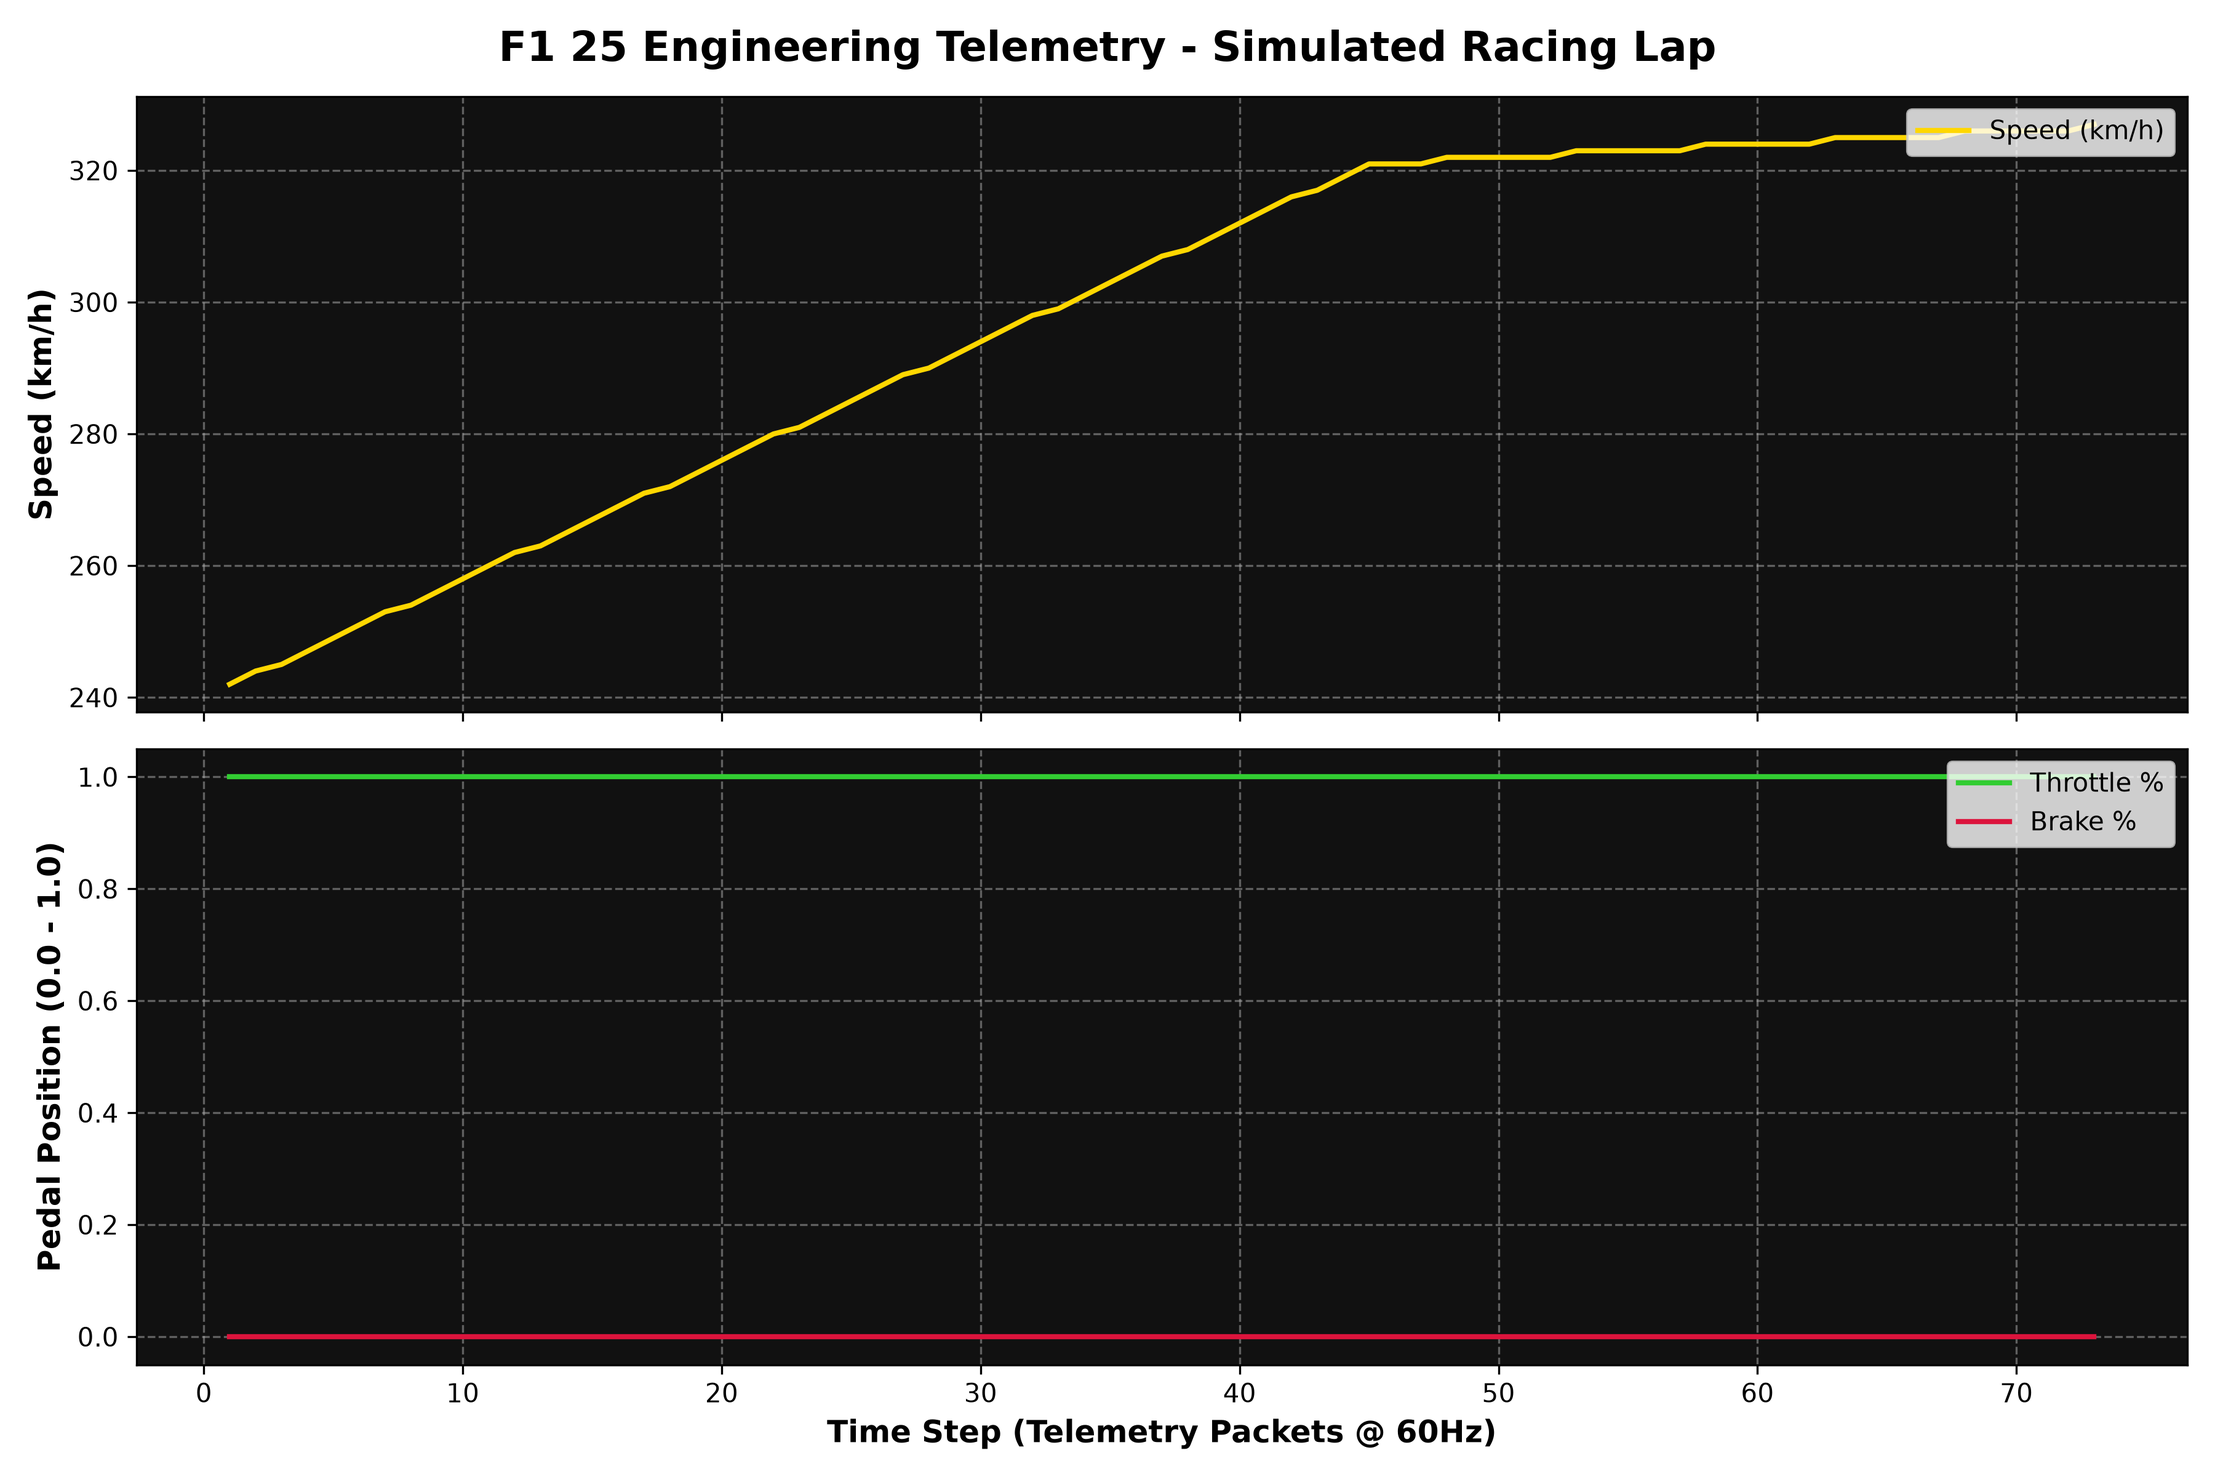
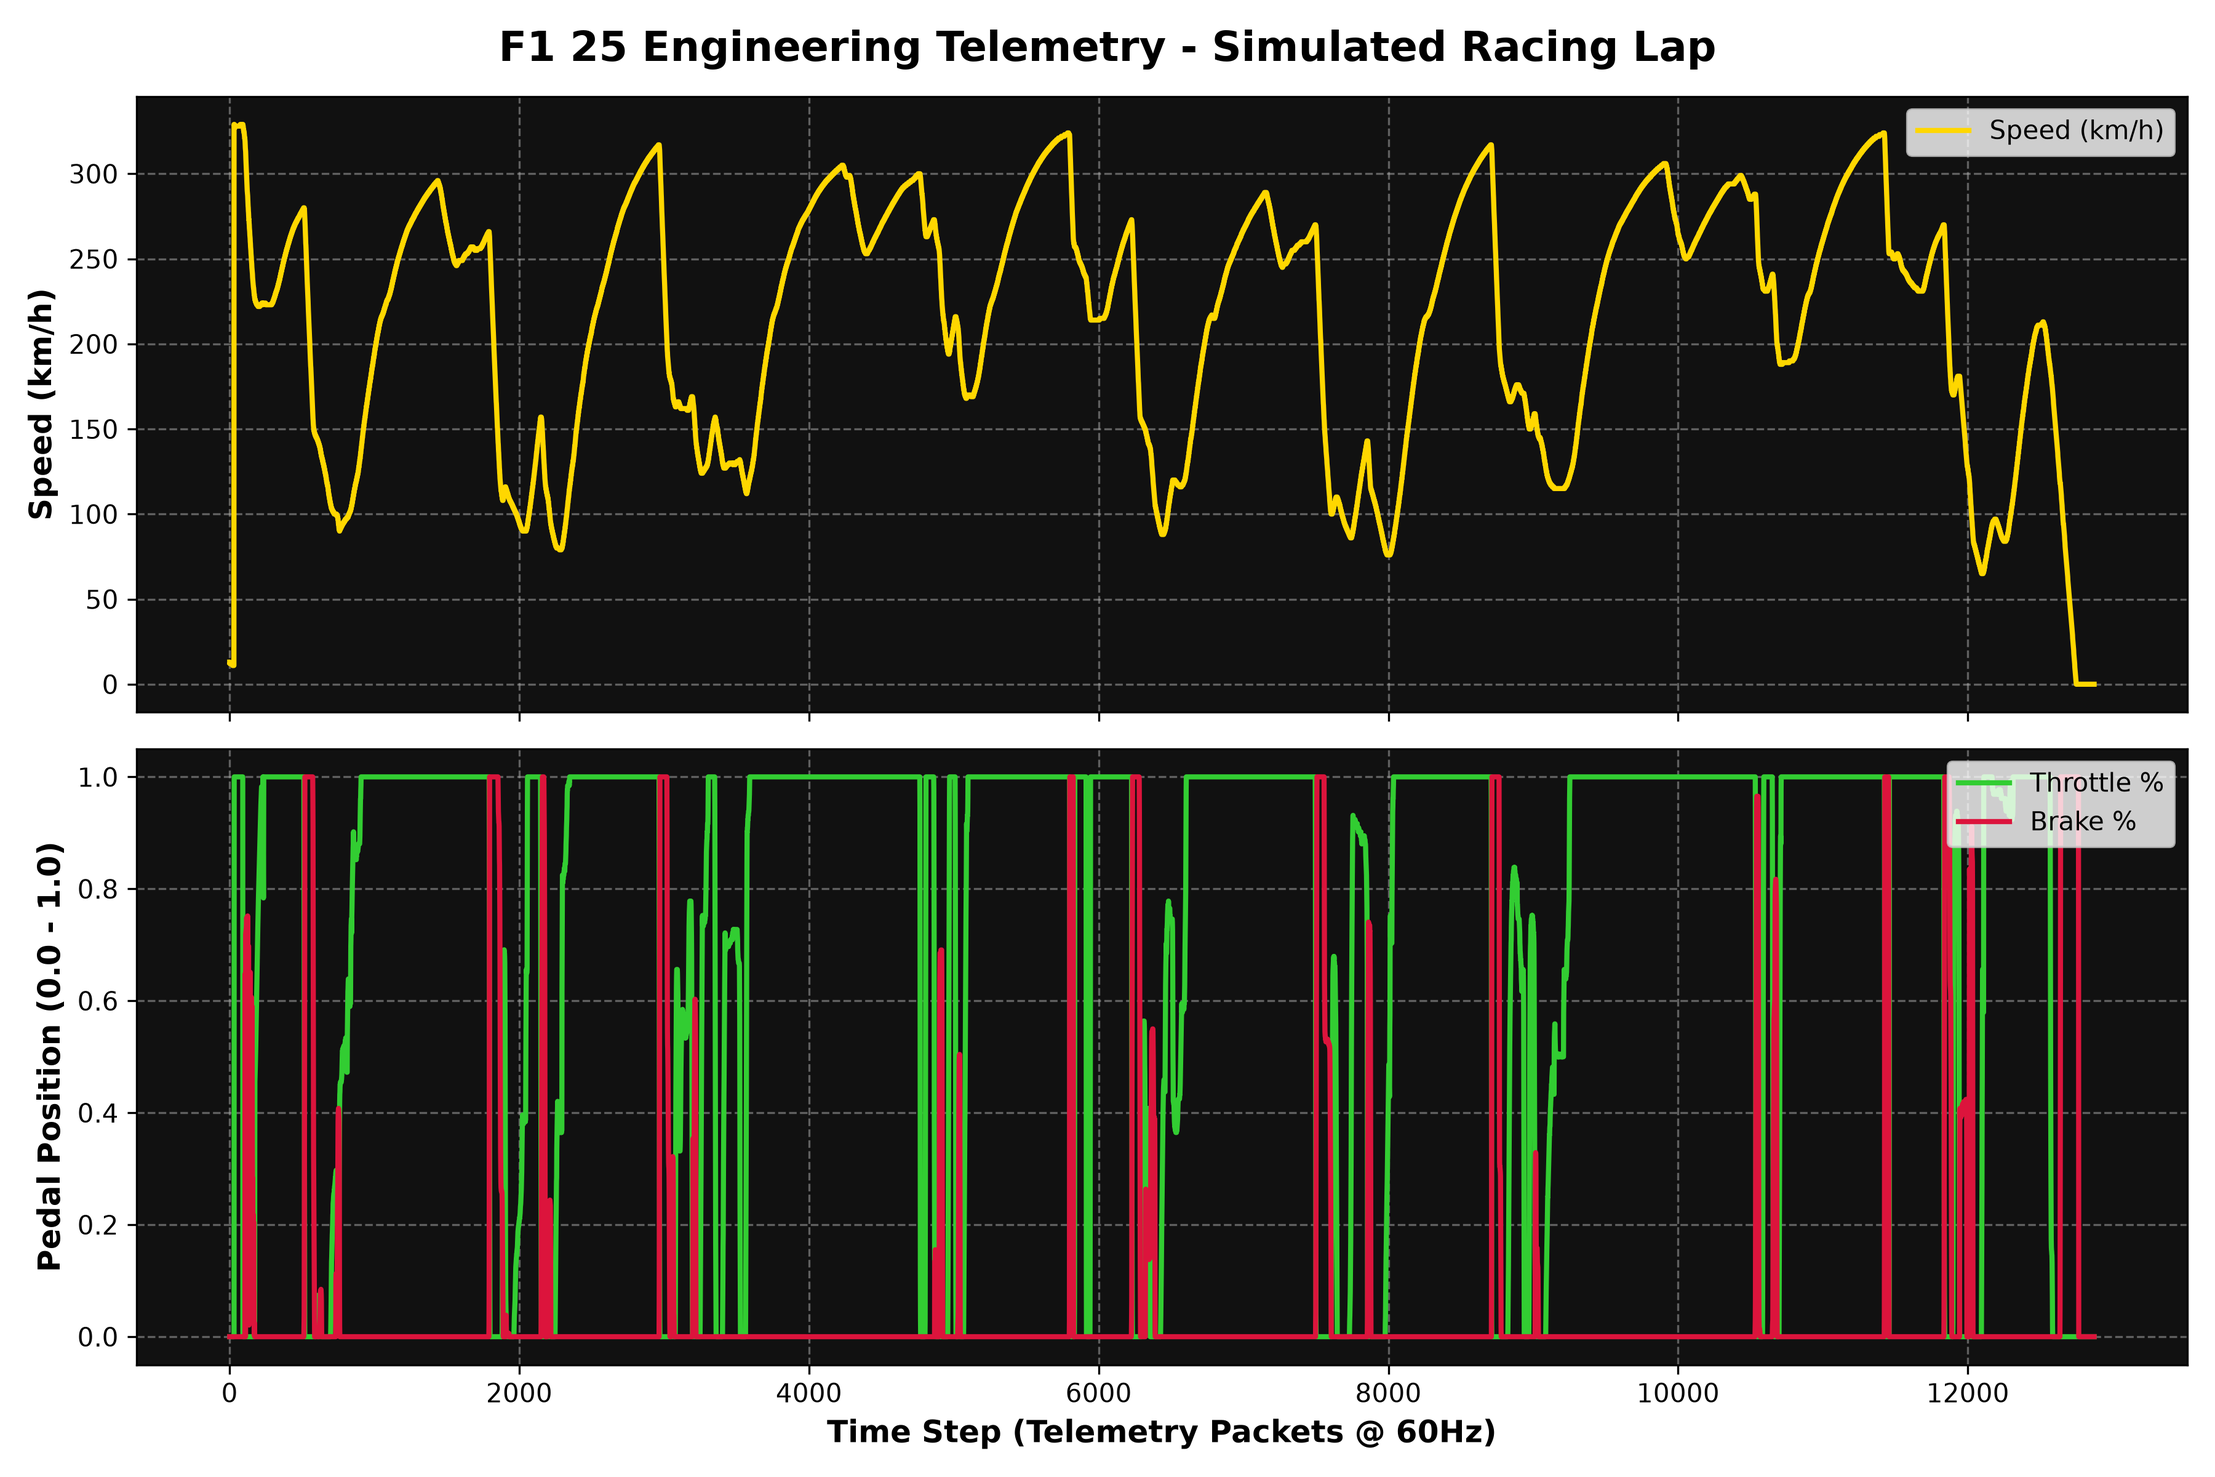
feat(telemetry): align F1 25 binary packet offsets, add sequential lap tracking, auto track detection, and CLI analytics

diff --git a/templates/index.html b/templates/index.html
@@ -20,7 +20,7 @@
         </div>
     </header>
 
-    <main class="dashboard-grid">
+    <main class="dashboard-grid">       
         <!-- KPI Metric Cards -->
         <div class="kpi-container">
             <div class="kpi-card">
@@ -59,7 +59,9 @@
             <div class="gauge-box">
                 <h3>🎡 Live Steering Wheel</h3>
                 <div class="wheel-container">
-                    <div id="steeringWheel" class="steering-wheel">🎡</div>
+                    <!--<div id="steeringWheel" class="steering-wheel">  -->
+                        <img src="{{ url_for('static', filename='wheel.png') }}" id="steeringWheel" class="steering-wheel" alt="My Image">
+                    <!--</div> -->
                 </div>
             </div>
             <div class="map-box">

diff --git a/static/style.css b/static/style.css
@@ -135,6 +135,12 @@ canvas {
 .steering-wheel {
     font-size: 4rem;
     transition: transform 0.1s ease-out;
+
+    display: block;
+    height: 150px;       /* Fills the 120px container height */
+    width: auto;        /* Keeps the wheel perfectly round */
+    object-fit: contain;
+   
 }
 
 canvas#mapCanvas {

diff --git a/tests/data_viewer.py b/tests/data_viewer.py
@@ -1,57 +1,91 @@
+# tests/data_viewer.py
+import sys
+sys.path.append(".")  # Root import resolution
+
+import argparse
 import sqlite3
 import pandas as pd
 import matplotlib.pyplot as plt
+from config import DB_PATH
 
-def plot_telemetry_traces(db_path="telemetry.db"):
-    # 1. Establish database connection and extract the logged data via SQL
-    # We grab data from our high-frequency child table
-    query = """
-        SELECT sample_id, speed, throttle, brake 
-        FROM telemetry_samples 
-        ORDER BY sample_id ASC
-    """
-    
+def plot_telemetry_traces(mode="latest", lap_id=None, db_path=DB_PATH):
     with sqlite3.connect(db_path) as conn:
-        # Load the SQL query directly into a convenient Pandas DataFrame pandas structure
-        df = pd.read_sql_query(query, conn)
-    
+        
+        # --- MODE 1: FULL STINT MODE (All Laps across Time) ---
+        if mode == "all":
+            query = "SELECT sample_id, speed, throttle, brake FROM telemetry_samples ORDER BY sample_id ASC"
+            df = pd.read_sql_query(query, conn)
+            x_axis = 'sample_id'
+            x_label = "Time Step (Telemetry Packets @ 60Hz)"
+            title_text = "F1 25 Telemetry - Full Driving Stint Overview"
+            output_img = "telemetry_full_stint.png"
+
+        # --- MODE 2: SINGLE LAP MODE (Targeted Lap by Distance) ---
+        else:
+            if lap_id is None:
+                lap_df = pd.read_sql_query("SELECT lap_id FROM laps ORDER BY lap_id DESC LIMIT 1", conn)
+                if lap_df.empty:
+                    print("No laps found in database! Run main.py first.")
+                    return
+                lap_id = int(lap_df.iloc[0]['lap_id'])
+
+            query = """
+                SELECT lap_distance, speed, throttle, brake 
+                FROM telemetry_samples 
+                WHERE lap_id = ?
+                ORDER BY lap_distance ASC
+            """
+            df = pd.read_sql_query(query, conn, params=(lap_id,))
+            x_axis = 'lap_distance'
+            x_label = "Lap Distance (meters)"
+            title_text = f"F1 25 Telemetry - Lap ID #{lap_id}"
+            output_img = f"telemetry_lap_{lap_id}.png"
+
     if df.empty:
-        print("Your telemetry database is currently empty! Run your main receiver pipeline first.")
+        print("No telemetry samples found.")
         return
 
-    print(f"Successfully extracted {len(df)} telemetry rows. Constructing charts...")
+    print(f"Extracted {len(df)} samples ({title_text}). Rendering Matplotlib charts...")
 
-    # 2. Setup a dual-plot canvas layout (Subplot 1: Speed, Subplot 2: Pedals)
-    # sharex=True locks the timelines together so zooming on speed aligns with the pedals
+    # Subplot 1: Speed | Subplot 2: Pedals
     fig, (ax1, ax2) = plt.subplots(2, 1, figsize=(12, 8), sharex=True)
-    fig.suptitle("F1 25 Engineering Telemetry - Simulated Racing Lap", fontsize=16, fontweight='bold')
+    fig.suptitle(title_text, fontsize=16, fontweight='bold')
 
-    # ---- CHART 1: Velocity Curve ----
-    ax1.plot(df['sample_id'], df['speed'], color='gold', linewidth=2, label='Speed (km/h)')
+    # Chart 1: Speed Curve
+    ax1.plot(df[x_axis], df['speed'], color='gold', linewidth=2, label='Speed (km/h)')
     ax1.set_ylabel("Speed (km/h)", fontsize=12, fontweight='bold')
     ax1.grid(True, linestyle='--', alpha=0.5)
     ax1.legend(loc='upper right')
-    ax1.set_facecolor('#111111') # Dark stealth-style engineering theme background
+    ax1.set_facecolor('#111111')
 
-    # ---- CHART 2: Driver Pedal Inputs (Throttle vs Brake) ----
-    ax2.plot(df['sample_id'], df['throttle'], color='limegreen', linewidth=2, label='Throttle %')
-    ax2.plot(df['sample_id'], df['brake'], color='crimson', linewidth=2, label='Brake %')
+    # Chart 2: Driver Pedals (Throttle & Brake)
+    ax2.plot(df[x_axis], df['throttle'], color='limegreen', linewidth=2, label='Throttle %')
+    ax2.plot(df[x_axis], df['brake'], color='crimson', linewidth=2, label='Brake %')
     ax2.set_ylabel("Pedal Position (0.0 - 1.0)", fontsize=12, fontweight='bold')
-    ax2.set_xlabel("Time Step (Telemetry Packets @ 60Hz)", fontsize=12, fontweight='bold')
+    ax2.set_xlabel(x_label, fontsize=12, fontweight='bold')
     ax2.grid(True, linestyle='--', alpha=0.5)
     ax2.legend(loc='upper right')
     ax2.set_facecolor('#111111')
 
-    # 3. Format and output the final graphical window visual canvas
     plt.tight_layout()
-    
-    # Save a high-resolution PNG image directly to your root folder file catalog
-    output_img = "telemetry_chart.png"
     plt.savefig(output_img, dpi=300)
-    print(f"Success! High-resolution chart exported and saved as: '{output_img}'")
-    
-    # Launch the interactive popup window window chart to view it live
+    print(f"Success! High-resolution chart exported as: '{output_img}'")
     plt.show()
 
 if __name__ == "__main__":
-    plot_telemetry_traces()
+    parser = argparse.ArgumentParser(description="F1 25 Telemetry Plotter")
+    
+    # Flag 1: Plot all laps across time
+    parser.add_argument("--all", action="store_true", help="Plot full multi-lap stint overview across time")
+    
+    # Flag 2: Pass a specific Lap ID integer (e.g. --lap 2 or -l 2)
+    parser.add_argument("--lap", "-l", type=int, help="Plot a specific Lap ID (e.g. --lap 2)")
+    
+    args = parser.parse_args()
+
+    if args.all:
+        plot_telemetry_traces(mode="all")
+    elif args.lap:
+        plot_telemetry_traces(mode="latest", lap_id=args.lap)  # Plots requested Lap ID!
+    else:
+        plot_telemetry_traces(mode="latest")                    # Defaults to latest active lap!

diff --git a/mock_sender.py b/mock_sender.py
@@ -11,7 +11,6 @@ sock = socket.socket(socket.AF_INET, socket.SOCK_DGRAM)
 print("Injecting F1 25 Multi-Packet Racing Simulation (Motion, LapData, Telemetry)...")
 print("Press Ctrl+C to stop.")
 
-# Simulation State Parameters
 fake_session_uid = 987654321012345
 speed = 100.0          # Velocity (km/h)
 throttle = 1.0         # Gas pedal (0.0 to 1.0)
@@ -41,65 +40,61 @@ try:
 
         # --- 1. SIMULATE VEHICLE PHYSICS & DISTANCE ---
         if loop_step < 160:
-            # Main Straight
             throttle = 1.0
             brake = 0.0
             steer = 0.0
             speed += 1.8 if speed < 320 else 0.2
         elif loop_step < 220:
-            # Heavy Braking Zone
             throttle = 0.0
             brake = 1.0
             steer = 0.15
             speed -= 3.5 if speed > 80 else 0.5
         elif loop_step < 320:
-            # Corner Apex Trailing
             throttle = 0.3
             brake = 0.0
             steer = 0.5
             speed += 0.5 if speed < 110 else -1.0
         else:
-            # Corner Exit Acceleration
             throttle = 1.0
             brake = 0.0
             steer = max(0.0, steer - 0.1)
             speed += 1.2
 
-        # Increment distance based on speed (Spa circuit loop is ~7004 meters)
+        # Increment lap distance based on current speed
         lap_distance += (speed / 3.6) * 0.05  # meters moved in 50ms interval
         
-        # Check for Lap Completion (7000 meters = new lap!)
+        # Reset lap distance when crossing finish line (Spa = 7000m)
         if lap_distance >= 7000.0:
             lap_distance = 0.0
             current_lap_num += 1
             print(f"\n🏁 SIMULATOR COMPLETED LAP! Advancing to Lap #{current_lap_num}\n")
 
-        # Simulate 2D GPS World Coordinates (Elliptical track loop)
+        # 2D GPS World Coordinates
         angle = (lap_distance / 7000.0) * (2 * math.pi)
         world_x = math.sin(angle) * 500.0
         world_z = math.cos(angle) * 1000.0
 
-        # --- 2. PACKET ID 0: MOTION DATA (GPS World Coordinates) ---
+        # --- 2. PACKET ID 0: MOTION DATA ---
         motion_packet = build_header(packet_id=0)
         offset_m = 29 + (0 * 60)
         struct.pack_into("<fff", motion_packet, offset_m, world_x, 0.0, world_z)
         sock.sendto(motion_packet, (TARGET_IP, TARGET_PORT))
 
-        # --- 3. PACKET ID 2: LAP DATA (Lap Distance & Lap Number) ---
+        # --- 3. PACKET ID 2: LAP DATA (Offset 20 for distance, Offset 33 for lap num) ---
         lap_packet = build_header(packet_id=2)
-        offset_l = 29 + (0 * 57)
-        struct.pack_into("<f", lap_packet, offset_l + 12, float(lap_distance))
-        lap_packet[offset_l + 26] = current_lap_num
+        offset_l = 29 + (0 * 56)  # 56 bytes per car block
+        struct.pack_into("<f", lap_packet, offset_l + 20, float(lap_distance)) # Offset 20!
+        lap_packet[offset_l + 33] = current_lap_num                              # Offset 33!
         sock.sendto(lap_packet, (TARGET_IP, TARGET_PORT))
 
-        # --- 4. PACKET ID 6: CAR TELEMETRY (Mechanical Metrics) ---
+        # --- 4. PACKET ID 6: CAR TELEMETRY ---
         telemetry_packet = build_header(packet_id=6)
-        offset_t = 29 + (0 * 60)
+        offset_t = 29 + (0 * 60)  # 60 bytes per car block
         packed_metrics = struct.pack("<Hfff", int(speed), throttle, steer, brake)
         telemetry_packet[offset_t : offset_t + 14] = packed_metrics
         sock.sendto(telemetry_packet, (TARGET_IP, TARGET_PORT))
 
-        time.sleep(0.05)  # Maintain 20Hz simulation cadence
+        time.sleep(0.05)  # 20Hz cadence
 
 except KeyboardInterrupt:
     print("\nF1 25 simulation loop halted cleanly.")

diff --git a/main.py b/main.py
@@ -38,14 +38,21 @@ def main():
                 latest_motion = MotionData(raw_bytes, header)
 
             # --- PACKET TYPE 2: LAP DATA (Lap Distance & Lap Numbers) ---
+            # In main.py under PACKET TYPE 2 (LAP DATA):
             elif header.packet_id == PacketID.LAP_DATA:
                 latest_lap_data = LapData(raw_bytes, header)
                 
-                # Check for Lap Number Transitions (create new session lap record)
-                if active_lap_num is None or latest_lap_data.current_lap_num != active_lap_num:
+                # 1. Startup: Create initial lap session (e.g. Lap 1)
+                if active_lap_id is None:
                     active_lap_num = latest_lap_data.current_lap_num
                     active_lap_id = create_new_lap(current_track_id, active_lap_num)
-                    print(f"🏎 NEW LAP DETECTED: Lap #{active_lap_num} (Created lap_id={active_lap_id})")
+                    print(f"🏎 SESSION STARTED: Lap #{active_lap_num} (lap_id={active_lap_id})")
+
+                # 2. Sequential Check: Create a new lap ONLY when lap number genuinely advances (+1)
+                elif latest_lap_data.current_lap_num == active_lap_num + 1:
+                    active_lap_num = latest_lap_data.current_lap_num
+                    active_lap_id = create_new_lap(current_track_id, active_lap_num)
+                    print(f"🏁 NEW LAP DETECTED: Lap #{active_lap_num} (Created lap_id={active_lap_id})")
 
             # --- PACKET TYPE 6: CAR TELEMETRY (Mechanical Metrics) ---
             elif header.packet_id == PacketID.CAR_TELEMETRY:

diff --git a/packets/lap_data.py b/packets/lap_data.py
@@ -5,11 +5,21 @@ from config import HEADER_SIZE, CAR_LAP_STRUCT_SIZE
 
 class LapData:
     def __init__(self, raw_bytes: bytes, header: Header):
-        offset = HEADER_SIZE + (header.player_car_index * CAR_LAP_STRUCT_SIZE)
+        # Force player car index to 0 for single-player / time-trial stability
+        player_idx = header.player_car_index if header.player_car_index < 22 else 0
+        offset = HEADER_SIZE + (player_idx * CAR_LAP_STRUCT_SIZE)
         
-        # Extract lap distance (float at offset + 12) and current lap number (uint8 at offset + 26)
-        lap_distance, = struct.unpack_from("<f", raw_bytes, offset + 12)
-        current_lap_num = raw_bytes[offset + 26]
+        # Offsets verified directly from F1 25 PDF Spec (Page 5 & 6):
+        # Offset 20: m_lapDistance (float)
+        # Offset 33: m_currentLapNum (uint8)
+        lap_distance, = struct.unpack_from("<f", raw_bytes, offset + 20)
+        current_lap_num = raw_bytes[offset + 33]
         
-        self.lap_distance = lap_distance
-        self.current_lap_num = current_lap_num
+        # SANITY FILTER: Valid track distances are strictly between 0m and 10,000m
+        if 0.0 <= lap_distance <= 10000.0:
+            self.lap_distance = lap_distance
+        else:
+            self.lap_distance = 0.0  # Reject garbage out-of-bounds floats
+
+        # SANITY FILTER: Lap numbers in a session are between 0 and 200
+        self.current_lap_num = current_lap_num if current_lap_num < 200 else 0

diff --git a/database.py b/database.py
@@ -50,13 +50,16 @@ def init_db(db_path: str = DB_PATH):
             );
         """)
         
-        # Seed default track lookup data if empty
+       # Seed favorite testing tracks (Official F1 25 IDs)
         cursor.execute("""
             INSERT OR IGNORE INTO tracks (track_id, track_name, total_sectors) 
             VALUES 
-                (11, 'Spa-Francorchamps', 3),
-                (2, 'Monaco', 3),
-                (1, 'Melbourne', 3);
+                (0, 'Melbourne', 3),
+                (5, 'Monaco', 3),
+                (7, 'Silverstone (Britain)', 3),
+                (10, 'Spa-Francorchamps', 3),
+                (11, 'Monza', 3),
+                (17, 'Austria (Red Bull Ring)', 3);
         """)
         
         conn.commit()

diff --git a/config.py b/config.py
@@ -10,4 +10,4 @@ DB_PATH = "telemetry.db"
 HEADER_SIZE = 29
 CAR_TELEMETRY_STRUCT_SIZE = 60
 CAR_MOTION_STRUCT_SIZE = 60
-CAR_LAP_STRUCT_SIZE = 57
+CAR_LAP_STRUCT_SIZE = 56
